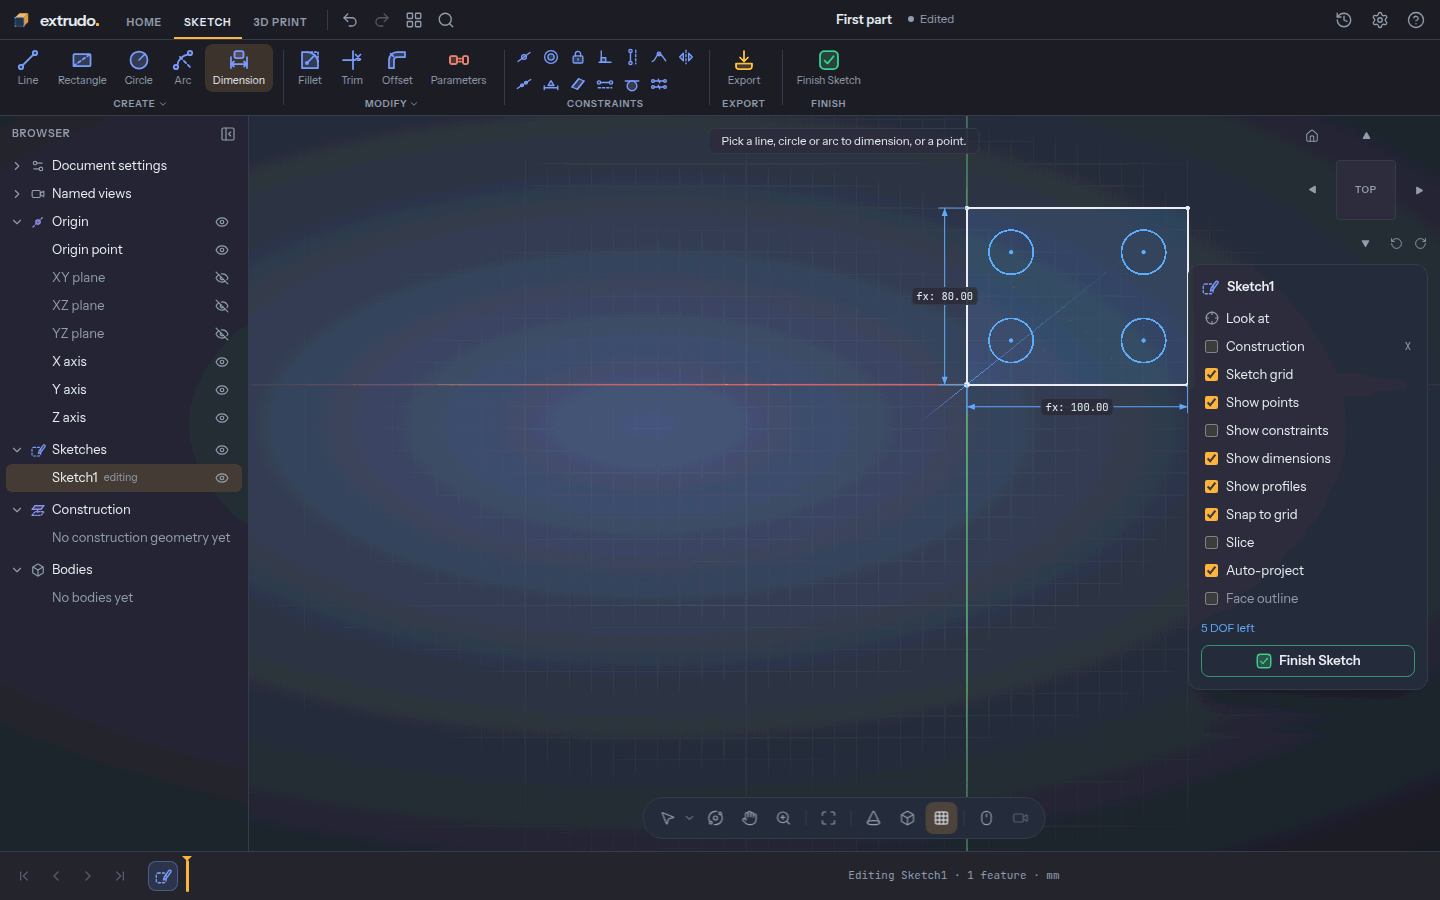
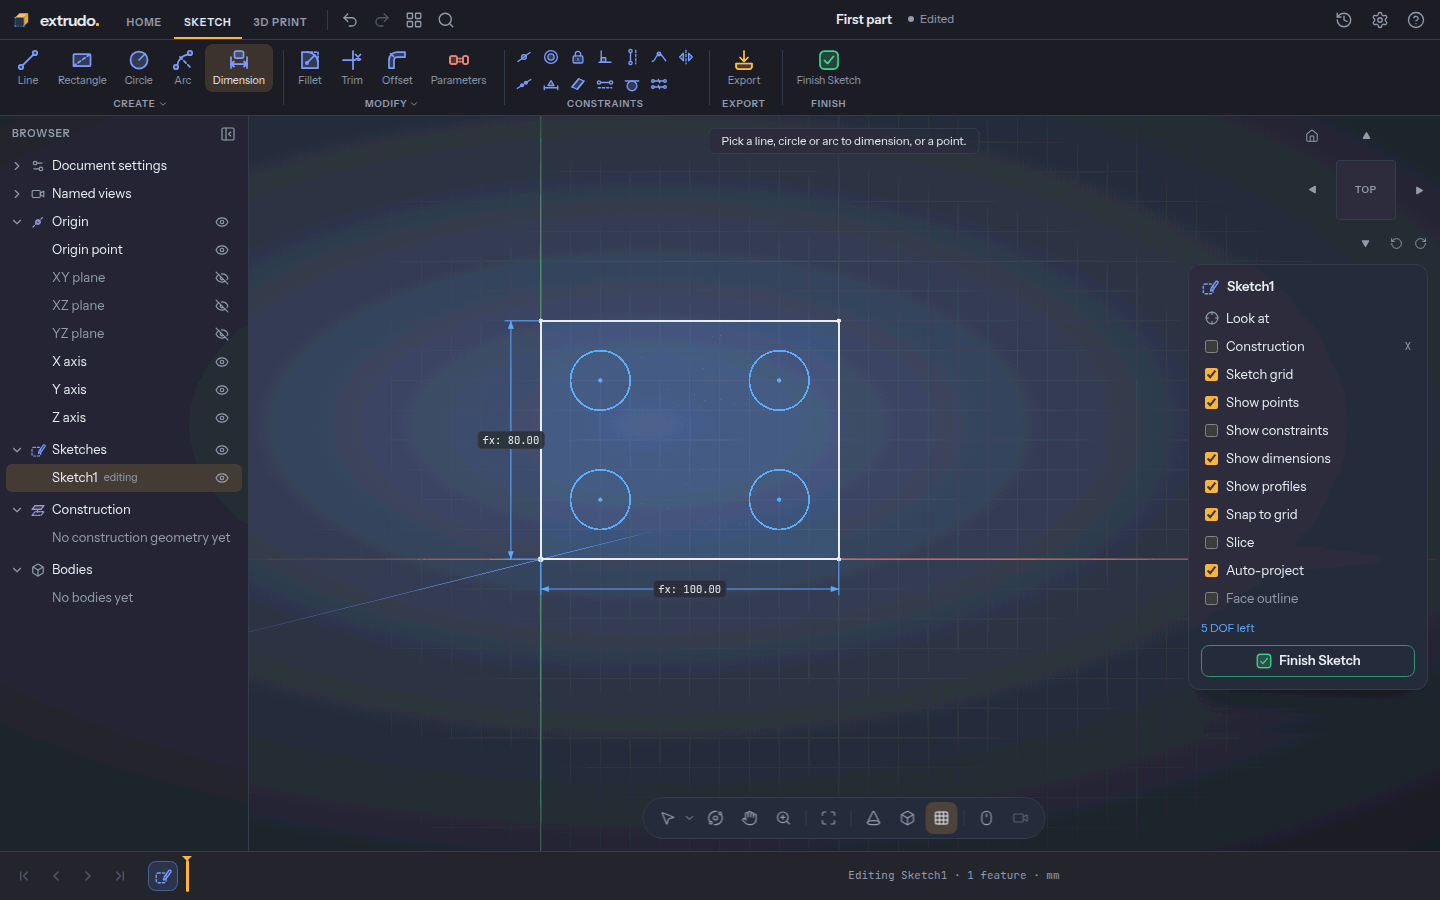
Docs: clearer tutorial pictures (P6-06)
22 of the 35 pictures of tutorials 1-3 re-taken so each shows its step: the
sketches centred clear of the sketch palette (e2e/tutorials/view.ts: panTo and
orbitBy with the default mouse preset), the storage box's solid steps from the
home view, its face sketches zoomed out, the plate's hole dimensions placed
apart, and the name tag's back fillet tipped so the rounded corner shows. Only
steps' camera actions changed, with a sentence on each page where the reader
now moves the view too; the modelling and the checks are as before.

diff --git a/e2e/tutorials/storage-box.spec.ts b/e2e/tutorials/storage-box.spec.ts
@@ -29,6 +29,7 @@ import {
   selectTab,
 } from '../helpers';
 import { tutorial } from './step';
+import { MIDDLE, panTo } from './view';
 
 // Tutorial 2, docs/guide/tutorials/storage-box.md: a parametric storage box cut from a
 // solid. It is benchmark B2's flow (e2e/benchmark-b2.spec.ts) without the fixture, one
@@ -90,7 +91,9 @@ test('Tutorial 2: a storage box', async ({ page }) => {
     async () => {
       await closeParameters(page);
       const home = await newSketchOnXY(page);
-      await zoomOutTo(page, home(40, 30), 300);
+      await zoomOutTo(page, home(40, 30), 200);
+      // The block's footprint sits in the middle of the free part of the view, clear of the palette.
+      await panTo(page, home(40, 30));
       click = clicker(page, await mapping(viewport));
       const showConstraints = palette.getByRole('checkbox', { name: 'Show constraints' });
       await showConstraints.uncheck();
@@ -158,12 +161,19 @@ test('Tutorial 2: a storage box', async ({ page }) => {
       await page.mouse.move(inside.x, inside.y);
       await page.mouse.click(inside.x, inside.y);
       await expect.poll(() => attr(viewport, 'data-model-selection')).toMatch(/^profile:/);
+      // Look at it from the corner, so the preview shows a block and not a flat outline.
+      await homeView(page);
       await page.keyboard.press('e');
       await expect(extrudeDialog).toBeVisible();
       await expect(extrudeDialog.getByRole('combobox', { name: 'Operation' })).toHaveValue(
         'new-body',
       );
       await extrudeDialog.getByRole('textbox', { name: 'Distance', exact: true }).fill('height');
+      // The view was fitted to the flat outline: step back and centre, so the 40 mm block fits.
+      await settled(viewport);
+      const block = (await projector(viewport))([40, 30, 20]);
+      await zoomOutTo(page, block, Number(await viewport.getAttribute('data-camera-size')) * 1.5);
+      await panTo(page, (await projector(viewport))([40, 30, 20]));
     },
     async () => {
       await expect(extrudeDialog).toHaveAttribute('data-preview-status', 'ok', {
@@ -179,6 +189,7 @@ test('Tutorial 2: a storage box', async ({ page }) => {
       await extrudeDialog.getByRole('button', { name: 'OK' }).click();
       await expect(extrudeDialog).toBeHidden();
       await kernelReady(page);
+      await homeView(page);
     },
     async () => {
       await expect(chip(page, 'Extrude1')).toBeVisible();
@@ -196,6 +207,12 @@ test('Tutorial 2: a storage box', async ({ page }) => {
       await page.mouse.move(top.x, top.y);
       await page.mouse.click(top.x, top.y);
       await expect(chip(page, 'Sketch2')).toBeVisible();
+      await settled(viewport);
+      // The sketch opens fitted to the face, which then fills the view: centre it and zoom
+      // out until it has margin round it.
+      const faceCentre = (await projector(viewport))([40, 30, 40]);
+      await panTo(page, faceCentre);
+      await zoomOutTo(page, MIDDLE, 150);
       await settled(viewport);
     },
     async () => {
@@ -227,7 +244,7 @@ test('Tutorial 2: a storage box', async ({ page }) => {
   await step(
     'offset',
     async () => {
-      // The face fills the view: zoom out around its middle so that its edges clear the nav bar.
+      // The face is already in the middle with margin; this only guards the nav bar.
       await zoomOutTo(page, world([40, 30, 40]), 150);
       const flat = await projector(viewport);
       onFace = (x: number, y: number) => flat([x, y, 40]);
@@ -277,6 +294,7 @@ test('Tutorial 2: a storage box', async ({ page }) => {
       await cut.getByRole('button', { name: 'OK' }).click();
       await expect(cut).toBeHidden();
       await kernelReady(page);
+      await homeView(page);
     },
     async () => {
       await expect(chip(page, 'Extrude2')).toBeVisible();
@@ -290,6 +308,7 @@ test('Tutorial 2: a storage box', async ({ page }) => {
     async () => {
       await setParameters(page, { width: '100 mm', depth: '70 mm', wall: '4 mm' });
       await kernelReady(page);
+      await homeView(page);
     },
     async () => {
       await expect(viewport).toHaveAttribute('data-bodies', 'Body1:11:100,70,40');

diff --git a/e2e/tutorials/name-tag.spec.ts b/e2e/tutorials/name-tag.spec.ts
@@ -32,6 +32,7 @@ import {
   selectTab,
 } from '../helpers';
 import { tutorial } from './step';
+import { MIDDLE, orbitBy, panTo } from './view';
 
 // Tutorial 2, docs/guide/tutorials/name-tag.md: a name tag with raised letters. It is
 // benchmark B8's flow (e2e/benchmark-b8.spec.ts) as a beginner follows it, one `step` per
@@ -128,7 +129,8 @@ test('Tutorial 2: a name tag', async ({ page }) => {
       // The fourth corner is hidden in the home view: turn to the back to reach it.
       at = await turnView(page, 'Shift+5');
       await zoomOutTo(page, at([0, 0, 1.5]), 110);
-      await settled(viewport);
+      // Seen exactly from the back the plate is a line: tip the view down a little.
+      await orbitBy(page, 0, 100);
       at = await projector(viewport);
       await clickEdge(page, at, [-30, 10, 1.5]);
       await expect(edges).toHaveText('4 edges');
@@ -177,6 +179,10 @@ test('Tutorial 2: a name tag', async ({ page }) => {
       const showProfiles = palette.getByRole('checkbox', { name: 'Show profiles' });
       if (!(await showProfiles.isChecked())) await showProfiles.check();
       await showProfiles.blur();
+      // Centre the tag between the browser and the palette, small enough to see all of it.
+      await panTo(page, (await mapping(viewport))(0, 0));
+      await zoomOutTo(page, MIDDLE, 90);
+      await settled(viewport);
     },
     async () => {
       await expect(chip(page, 'Sketch1')).toBeVisible();
@@ -195,6 +201,8 @@ test('Tutorial 2: a name tag', async ({ page }) => {
       await text.getByRole('textbox', { name: 'Text' }).fill('EXTRUDO');
       await text.getByRole('button', { name: 'Center' }).click();
       await text.getByRole('textbox', { name: 'Height' }).fill('8 mm');
+      // Give the preview a moment to catch up with the alignment and the height.
+      await page.waitForTimeout(1000);
     },
     async () => {
       await expect(text).toBeVisible();

diff --git a/e2e/tutorials/view.ts b/e2e/tutorials/view.ts
@@ -1,0 +1,41 @@
+import type { Page } from '@playwright/test';
+import { settled, viewportOf } from '../benchmark-helpers';
+
+// Camera moves for the tutorials' pictures (P6-06): the pictures are the whole page, so a
+// step that draws somewhere off to the side pans it to the middle of the free part of the
+// view (between the browser and the palette or dialog) before the shot.
+
+/** Where a picture's subject should sit: the middle of the view between the browser and a right-hand panel. */
+export const MIDDLE = { x: 690, y: 440 };
+
+/** Pans (default preset: right-drag) so that the page point `from` lands on `to`, then waits for the camera. */
+export async function panTo(
+  page: Page,
+  from: { x: number; y: number },
+  to: { x: number; y: number } = MIDDLE,
+) {
+  await page.mouse.move(from.x, from.y);
+  await page.mouse.down({ button: 'right' });
+  const steps = 8;
+  for (let i = 1; i <= steps; i++) {
+    await page.mouse.move(
+      from.x + ((to.x - from.x) * i) / steps,
+      from.y + ((to.y - from.y) * i) / steps,
+    );
+  }
+  await page.mouse.up({ button: 'right' });
+  await settled(viewportOf(page));
+}
+
+/** Orbits (default preset: middle-drag) by a drag of `dx`, `dy` page pixels, then waits for the camera. */
+export async function orbitBy(page: Page, dx: number, dy: number) {
+  const from = MIDDLE;
+  await page.mouse.move(from.x, from.y);
+  await page.mouse.down({ button: 'middle' });
+  const steps = 8;
+  for (let i = 1; i <= steps; i++) {
+    await page.mouse.move(from.x + (dx * i) / steps, from.y + (dy * i) / steps);
+  }
+  await page.mouse.up({ button: 'middle' });
+  await settled(viewportOf(page));
+}

diff --git a/e2e/tutorials/first-part.spec.ts b/e2e/tutorials/first-part.spec.ts
@@ -24,6 +24,7 @@ import {
   selectTab,
 } from '../helpers';
 import { tutorial } from './step';
+import { panTo } from './view';
 
 // Tutorial 1, docs/guide/tutorials/first-part.md: a plate with four holes. It is benchmark
 // B1's flow (e2e/benchmark-b1.spec.ts) followed by an extrude and an STL export, one
@@ -80,7 +81,9 @@ test('Tutorial 1: a plate with four holes', async ({ page }) => {
       const home = await newSketchOnXY(page);
       // Zoom out around the plate's centre so that it clears the palette.
       const centre = home(50, 40);
-      await zoomOutTo(page, centre, 300);
+      await zoomOutTo(page, centre, 240);
+      // The plate sits in the middle of the free part of the view, clear of the palette.
+      await panTo(page, centre);
       click = clicker(page, await mapping(viewport));
       const showConstraints = palette.getByRole('checkbox', { name: 'Show constraints' });
       await showConstraints.uncheck();
@@ -200,7 +203,7 @@ test('Tutorial 1: a plate with four holes', async ({ page }) => {
         [
           [20, 20],
           [20, 60],
-          [12, 40],
+          [50, 40],
         ],
         'depth - 2 * margin',
       );
@@ -229,7 +232,7 @@ test('Tutorial 1: a plate with four holes', async ({ page }) => {
         click,
         [
           [30, 20],
-          [40, 35],
+          [75, 40],
         ],
         'hole',
       );

diff --git a/docs/guide/tutorials/storage-box.md b/docs/guide/tutorials/storage-box.md
@@ -44,7 +44,7 @@ Press `Esc` to close the dialog.
 Open the **Solid** tab, press **Create Sketch** and choose the **XY** plane, the
 floor of the model. The view turns to look straight down on it.
 
-Scroll to zoom out a little so the whole box will fit. In the **Sketch palette**
+Scroll to zoom out a little so the whole box will fit, and drag with the right mouse button to move it to the middle, clear of the palette. In the **Sketch palette**
 on the right, switch **Show constraints** off: the little symbols would crowd
 this tutorial.
 
@@ -78,7 +78,7 @@ rectangle, so the box will follow `width` and `depth` when you change them.
 ### 5. Give the base its height
 
 Press **Finish Sketch**. Click the plate's inside to select its shape and press
-`E` (**Extrude**). Type `height` in **Distance**. The preview shows a solid
+`E` (**Extrude**). Press `Shift+1` to look at it from the corner, then type `height` in **Distance**. The preview shows a solid
 80 × 60 × 40 mm block; the default **Operation** is **New body**, which is what
 you want.
 
@@ -98,7 +98,8 @@ It is 80 × 60 × 40 mm with 6 faces: top, bottom and four sides.
 Now the interesting part: drawing on the solid itself. Press **Create Sketch**
 again, and this time click the **top face** of the block instead of a plane. The
 view turns to look straight down on the face, and `Sketch2` appears in the
-timeline.
+timeline. The face fills the view: scroll out a little and drag with the right
+mouse button until it sits in the middle with room around it.
 
 ![A new sketch started on the top face](./images/storage-box/sketch-on-face.png)
 
@@ -129,7 +130,7 @@ Double-click the dimension under the inner rectangle and type `wall` instead of
 Press **Finish Sketch**. Click between the two rectangles to select the inner
 profile, and press `E` (**Extrude**). Set **Operation** to **Cut**, type
 `-(height - bottom)` in **Distance** and press **OK**. The extrude cuts the
-cavity down to the 4 mm floor. `Body1` now has 11 faces: the six outside, four
+cavity down to the 4 mm floor. Press `Shift+1` to look at the box from the corner. `Body1` now has 11 faces: the six outside, four
 inner walls and the floor.
 
 ![The box with its cavity cut out](./images/storage-box/cut.png)
@@ -138,7 +139,7 @@ inner walls and the floor.
 ### 11. Change a number and watch the walls follow
 
 Open the **Home** tab, press **Parameters** and change `width` to `100 mm`,
-`depth` to `70 mm` and `wall` to `4 mm`. Press `Esc`.
+`depth` to `70 mm` and `wall` to `4 mm`. Press `Esc`, then `Shift+1` to bring the bigger box back into view.
 
 The box is wider and deeper, and the walls are thicker, because the offset
 sketch follows `wall`. The floor stays 4 mm. `Ctrl+Z` undoes the change if you

diff --git a/docs/guide/tutorials/first-part.md b/docs/guide/tutorials/first-part.md
@@ -48,7 +48,7 @@ A solid starts as a flat drawing, a *sketch*. Open the **Solid** tab, press
 **Create Sketch** and choose the **XY** plane, the floor of the model. The view
 turns to look straight down on it.
 
-Scroll to zoom out a little so the whole plate will fit. In the **Sketch
+Scroll to zoom out a little so the whole plate will fit, and drag with the right mouse button to move it to the middle, clear of the palette. In the **Sketch
 palette** on the right, switch **Show constraints** off: the little symbols are
 useful later, but they would crowd this tutorial.
 
@@ -108,11 +108,11 @@ Keep the Dimension tool going and add five more, the same way (pick, place the
 label, type, `Enter`):
 
 1. The two bottom hole centres, label below: `spacing`.
-2. The two left hole centres, label to the left: `depth - 2 * margin`. This
+2. The two left hole centres, label in the middle of the plate: `depth - 2 * margin`. This
    centres the holes top to bottom.
 3. The origin and the bottom-left centre, label below: `margin`.
 4. The same two points, label to the left: `margin`.
-5. The bottom-left circle's edge, label outside: `hole`.
+5. The bottom-left circle's edge, label to the right: `hole`.
 
 Press `Esc`. The palette reads **Fully constrained ✓**: every part of the drawing
 is pinned by a number, so nothing is left to chance.

diff --git a/docs/guide/tutorials/name-tag.md b/docs/guide/tutorials/name-tag.md
@@ -68,7 +68,7 @@ other two vertical corner edges you can see. The dialog now says **3 edges**.
 ### 4. Bring in the hidden corner
 
 One corner faces away from you in the home view. Press `Shift+5` to look from
-the back, zoom out and click that last vertical edge. The dialog reads
+the back, zoom out, tip the view down a little by dragging with the middle mouse button, and click that last vertical edge. The dialog reads
 **4 edges**.
 
 Type `corner` in **Radius** and press **OK**. All four corners are now rounded,
@@ -98,6 +98,9 @@ The view turns to look straight down on it, and a new sketch starts on the face.
 In the **Sketch palette** on the right, switch **Snap to grid** off: the letters
 go exactly where you put them, not on the grid. Turn **Show profiles** on so a
 click inside a letter takes the whole text later.
+
+Scroll out and drag with the right mouse button until the whole tag sits in the
+middle, clear of the palette and the Text panel that comes next.
 
 ![A new sketch on the plate's top face](./images/name-tag/sketch-face.png)
 
